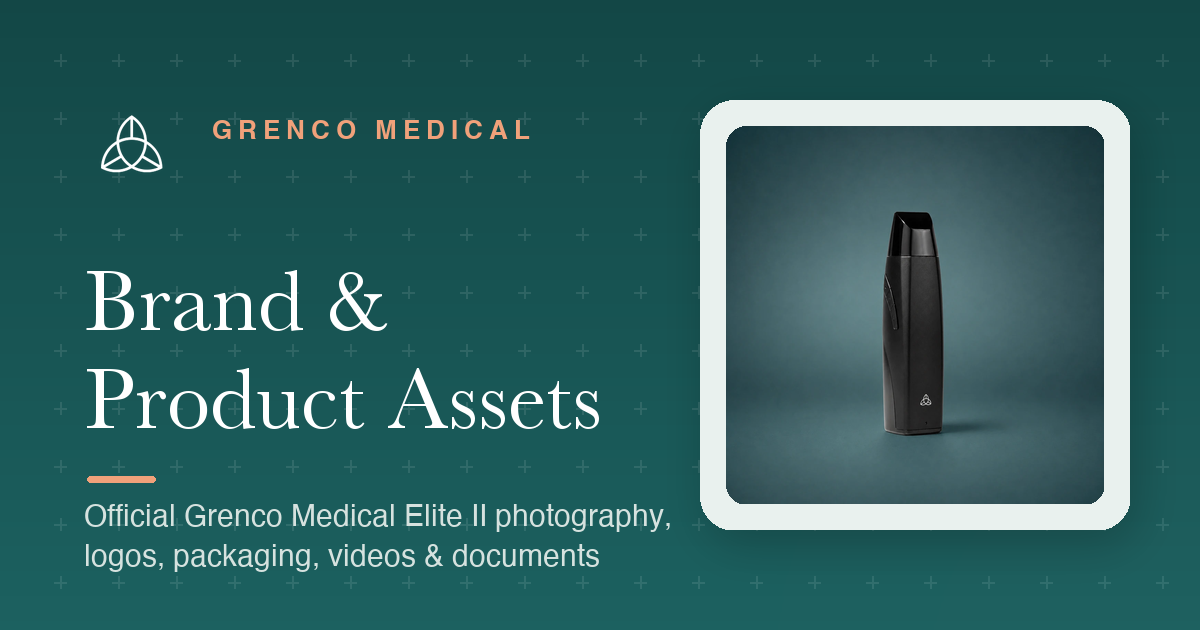
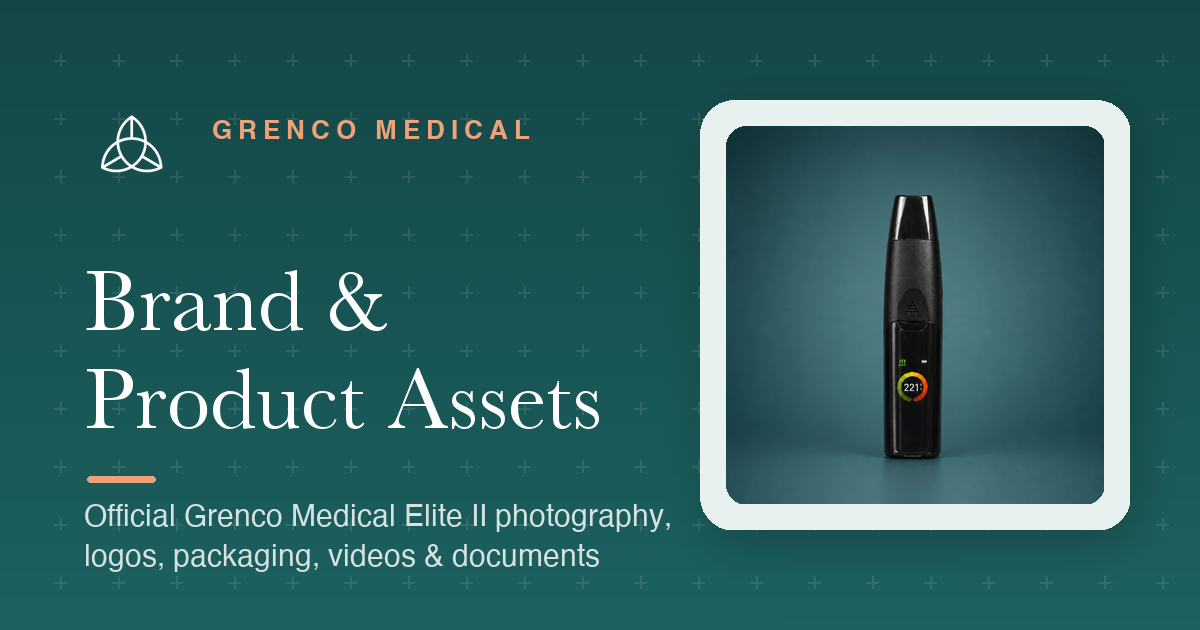
Update Elite II hero + share card to the screen-on studio shot (221°C display)

Changed region(s): [[0.5858, 0.3016, 0.8942, 0.8143], [0.7092, 0.7841, 0.74, 0.8143]]

diff --git a/assets/data/assets.js b/assets/data/assets.js
@@ -78,7 +78,7 @@ window.PORTAL_PRODUCTS = [
     brand: "grencomedical",
     category: "Therapeutic vaporiser",
     type: "Therapeutic vaporiser",
-    cover: "assets/elite-ii-hero.webp",
+    cover: "assets/elite-ii-hero-screen.webp",
     added: "2026-06-09",
     oneSheet: "", // documents coming soon
     // Seed folders — the seven canonical categories. The Dropbox sync overlays

diff --git a/scripts/make-share-card.py b/scripts/make-share-card.py
@@ -44,7 +44,7 @@ cx0, cy0 = W - CARD - 70, (H - CARD) // 2
 card = Image.new("RGBA", (CARD, CARD), MIST + (255,))
 rmask = Image.new("L", (CARD, CARD), 0)
 ImageDraw.Draw(rmask).rounded_rectangle([0, 0, CARD, CARD], radius=34, fill=255)
-prod = Image.open("assets/elite-ii-hero.webp").convert("RGBA")
+prod = Image.open("assets/elite-ii-hero-screen.webp").convert("RGBA")
 pad = 26
 fit = CARD - pad * 2
 prod.thumbnail((fit, fit), Image.LANCZOS)